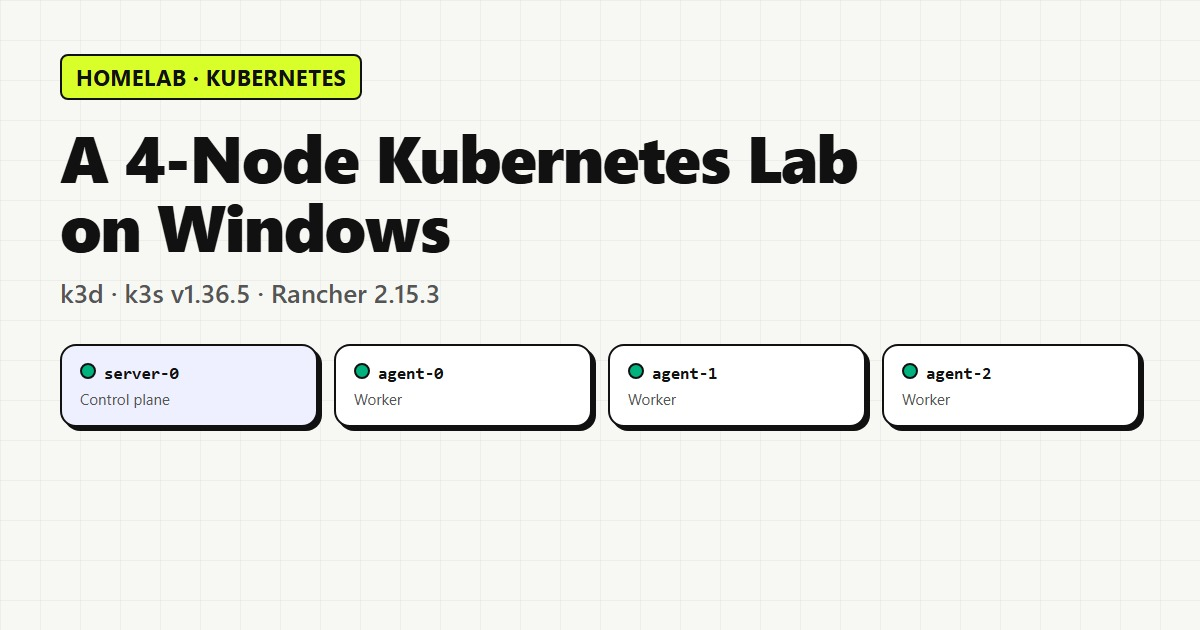
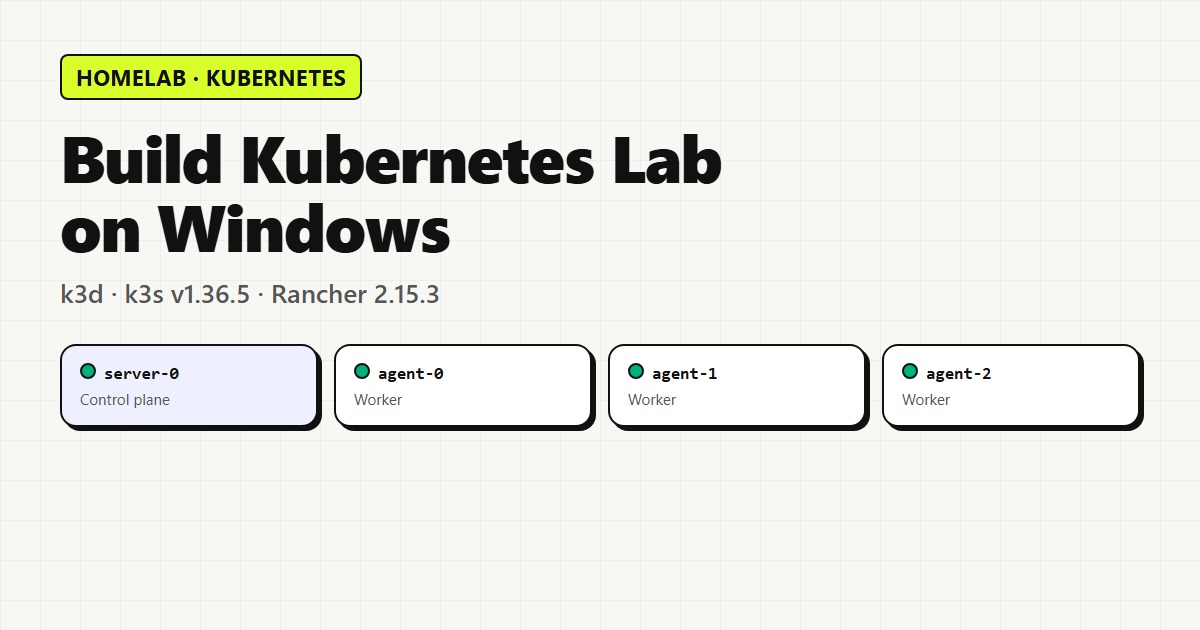
Shorten k3d Rancher lab post title

Changed region(s): [[0.0308, 0.2111, 0.74, 0.3016]]

diff --git a/blog/K3s-and-Rancher-on-Windows-with-WSL2.html b/blog/K3s-and-Rancher-on-Windows-with-WSL2.html
@@ -4,7 +4,7 @@
     <meta charset="UTF-8">
     <meta name="viewport" content="width=device-width, initial-scale=1.0">
     <meta name="description" content="Run a real 1 control plane + 3 worker k3s cluster on a single Windows PC, then manage it with Rancher 2.15 — step by step, with screenshots.">
-    <meta property="og:title" content="Build a 4-Node Kubernetes Lab on Windows with k3d and Rancher — Champ Patyatawee">
+    <meta property="og:title" content="Build Kubernetes Lab on Windows with k3d and Rancher — Champ Patyatawee">
     <meta property="og:description" content="Run a real 1 control plane + 3 worker k3s cluster on a single Windows PC, then manage it with Rancher 2.15 — step by step, with screenshots.">
     <meta property="og:type" content="article">
     <meta property="og:url" content="https://champ.patyatawee.com/blog/K3s-and-Rancher-on-Windows-with-WSL2">
@@ -13,10 +13,10 @@
     <meta property="og:image:height" content="630">
     <meta property="og:image:type" content="image/jpeg">
     <meta name="twitter:card" content="summary_large_image">
-    <meta name="twitter:title" content="Build a 4-Node Kubernetes Lab on Windows with k3d and Rancher">
+    <meta name="twitter:title" content="Build Kubernetes Lab on Windows with k3d and Rancher">
     <meta name="twitter:description" content="Run a real 1 control plane + 3 worker k3s cluster on a single Windows PC, then manage it with Rancher 2.15 — step by step, with screenshots.">
     <meta name="twitter:image" content="https://champ.patyatawee.com/image/blog/K3s-and-Rancher-on-Windows-with-WSL2/og.jpg">
-    <meta name="twitter:image:alt" content="Build a 4-Node Kubernetes Lab on Windows with k3d and Rancher">
+    <meta name="twitter:image:alt" content="Build Kubernetes Lab on Windows with k3d and Rancher">
     <!-- Thai alternate meta -->
     <meta name="description" content="Run a real 1 control plane + 3 worker k3s cluster on a single Windows PC, then manage it with Rancher 2.15 — step by step, with screenshots." lang="th">
     <meta property="og:locale:alternate" content="th_TH">
@@ -24,7 +24,7 @@
     <link rel="alternate" hreflang="en" href="https://champ.patyatawee.com/blog/K3s-and-Rancher-on-Windows-with-WSL2">
     <link rel="alternate" hreflang="th" href="https://champ.patyatawee.com/blog/K3s-and-Rancher-on-Windows-with-WSL2">
     <link rel="alternate" hreflang="x-default" href="https://champ.patyatawee.com/blog/K3s-and-Rancher-on-Windows-with-WSL2">
-    <title>Build a 4-Node Kubernetes Lab on Windows with k3d and Rancher — Champ Patyatawee</title>
+    <title>Build Kubernetes Lab on Windows with k3d and Rancher — Champ Patyatawee</title>
     <link rel="icon" href="../favicon.ico" sizes="any" type="image/x-icon">
     <link rel="stylesheet" href="style.css?v=7">
     <link href="https://cdnjs.cloudflare.com/ajax/libs/prism/1.29.0/themes/prism.min.css" rel="stylesheet" />
@@ -111,7 +111,7 @@
             <a href="index.html" class="back-link"><i data-lucide="arrow-left" class="back-icon"></i> Back to Blog</a>
             
             <header class="post-header">
-                <h1 class="post-title" id="post-title">Build a 4-Node Kubernetes Lab on Windows with k3d and Rancher</h1>
+                <h1 class="post-title" id="post-title">Build Kubernetes Lab on Windows with k3d and Rancher</h1>
                 <div class="post-meta">
                     <span class="post-date"><i data-lucide="calendar" class="meta-icon"></i> <span id="post-date">November 9, 2026</span></span>
                     <span class="post-reading-time"><i data-lucide="clock" class="meta-icon"></i> <span id="post-reading-time">9 min read</span></span>
@@ -728,7 +728,7 @@ kubectl -n default rollout status deploy/nginx
             <footer class="post-footer">
                 <div class="share-links">
                     <span class="share-label">Share this post:</span>
-                    <a href="https://twitter.com/intent/tweet?text=Build%20a%204-Node%20Kubernetes%20Lab%20on%20Windows%20with%20k3d%20and%20Rancher&url=https://champ.patyatawee.com/blog/K3s-and-Rancher-on-Windows-with-WSL2" target="_blank" rel="noopener noreferrer" class="share-link" title="Share on Twitter">
+                    <a href="https://twitter.com/intent/tweet?text=Build%20Kubernetes%20Lab%20on%20Windows%20with%20k3d%20and%20Rancher&url=https://champ.patyatawee.com/blog/K3s-and-Rancher-on-Windows-with-WSL2" target="_blank" rel="noopener noreferrer" class="share-link" title="Share on Twitter">
                         <svg width="20" height="20" viewBox="0 0 24 24" fill="none" stroke="currentColor" stroke-width="2" stroke-linecap="round" stroke-linejoin="round"><path d="M22 4s-.7 2.1-2 3.4c1.6 10-9.4 17.3-18 11.6 2.2.1 4.4-.6 6-2C3 15.5.5 9.6 3 5c2.2 2.6 5.6 4.1 9 4-.9-4.2 4-6.6 7-3.8 1.1 0 3-1.2 3-1.2z"/></svg>
                     </a>
                     <a href="https://www.facebook.com/sharer/sharer.php?u=https://champ.patyatawee.com/blog/K3s-and-Rancher-on-Windows-with-WSL2" target="_blank" rel="noopener noreferrer" class="share-link" title="Share on Facebook">
@@ -991,13 +991,13 @@ kubectl -n default rollout status deploy/nginx
             // Values use JSON.stringify() in the build script, so no quotes needed here
             const langData = {
                 en: {
-                    title: "Build a 4-Node Kubernetes Lab on Windows with k3d and Rancher",
+                    title: "Build Kubernetes Lab on Windows with k3d and Rancher",
                     date: "November 9, 2026",
                     readingTime: "9 min read",
                     tags: "<span class=\"tag\">kubernetes</span>\n<span class=\"tag\">k3s</span>\n<span class=\"tag\">rancher</span>\n<span class=\"tag\">k3d</span>\n<span class=\"tag\">homelab</span>",
                 },
                 th: {
-                    title: "Build a 4-Node Kubernetes Lab on Windows with k3d and Rancher",
+                    title: "Build Kubernetes Lab on Windows with k3d and Rancher",
                     date: "November 9, 2026",
                     readingTime: "9 นาที",
                     tags: "<span class=\"tag\">kubernetes</span>\n<span class=\"tag\">k3s</span>\n<span class=\"tag\">rancher</span>\n<span class=\"tag\">k3d</span>\n<span class=\"tag\">homelab</span>",

diff --git a/index.html b/index.html
@@ -1715,8 +1715,8 @@
         <div class="latest-grid">
             <!-- HOME_POSTS_START -->
 
-                <div class="home-post-card" data-en-title="Build a 4-Node Kubernetes Lab on Windows with k3d and Rancher" data-th-title="Build a 4-Node Kubernetes Lab on Windows with k3d and Rancher">
-                    <h2 class="home-post-card-title"><a href="blog/K3s-and-Rancher-on-Windows-with-WSL2.html">Build a 4-Node Kubernetes Lab on Windows with k3d and Rancher</a><span class="lang-badge">EN</span></h2>
+                <div class="home-post-card" data-en-title="Build Kubernetes Lab on Windows with k3d and Rancher" data-th-title="Build Kubernetes Lab on Windows with k3d and Rancher">
+                    <h2 class="home-post-card-title"><a href="blog/K3s-and-Rancher-on-Windows-with-WSL2.html">Build Kubernetes Lab on Windows with k3d and Rancher</a><span class="lang-badge">EN</span></h2>
                     <div class="home-post-card-date"><i data-lucide="calendar" style="width:14px;height:14px;stroke-width:2;"></i> November 9, 2026</div>
                     <p class="home-post-card-excerpt" data-en-excerpt="Run a real 1 control plane + 3 worker k3s cluster on a single Windows PC, then manage it with Rancher 2.15 — step by step, with screenshots." data-th-excerpt="Run a real 1 control plane + 3 worker k3s cluster on a single Windows PC, then manage it with Rancher 2.15 — step by step, with screenshots.">Run a real 1 control plane + 3 worker k3s cluster on a single Windows PC, then manage it with Rancher 2.15 — step by step, with screenshots.</p>
                     <div class="home-post-card-tags"><span class="tag">kubernetes</span>

diff --git a/blog/index.html b/blog/index.html
@@ -112,7 +112,7 @@
             
             <div class="post-card">
                 <div class="post-card-title-row">
-                    <h2 class="post-card-title"><a href="K3s-and-Rancher-on-Windows-with-WSL2.html">Build a 4-Node Kubernetes Lab on Windows with k3d and Rancher</a></h2>
+                    <h2 class="post-card-title"><a href="K3s-and-Rancher-on-Windows-with-WSL2.html">Build Kubernetes Lab on Windows with k3d and Rancher</a></h2>
                     <span class="lang-badge">EN</span>
                 </div>
                 <div class="post-card-date"><i data-lucide="calendar" style="width:14px;height:14px;stroke-width:2;"></i> November 9, 2026</div>

diff --git a/blog/posts/K3s-and-Rancher-on-Windows-with-WSL2/en.md b/blog/posts/K3s-and-Rancher-on-Windows-with-WSL2/en.md
@@ -1,5 +1,5 @@
 ---
-title: "Build a 4-Node Kubernetes Lab on Windows with k3d and Rancher"
+title: "Build Kubernetes Lab on Windows with k3d and Rancher"
 date: 2026-11-09
 tags: [kubernetes, k3s, rancher, k3d, homelab]
 excerpt: "Run a real 1 control plane + 3 worker k3s cluster on a single Windows PC, then manage it with Rancher 2.15 — step by step, with screenshots."
